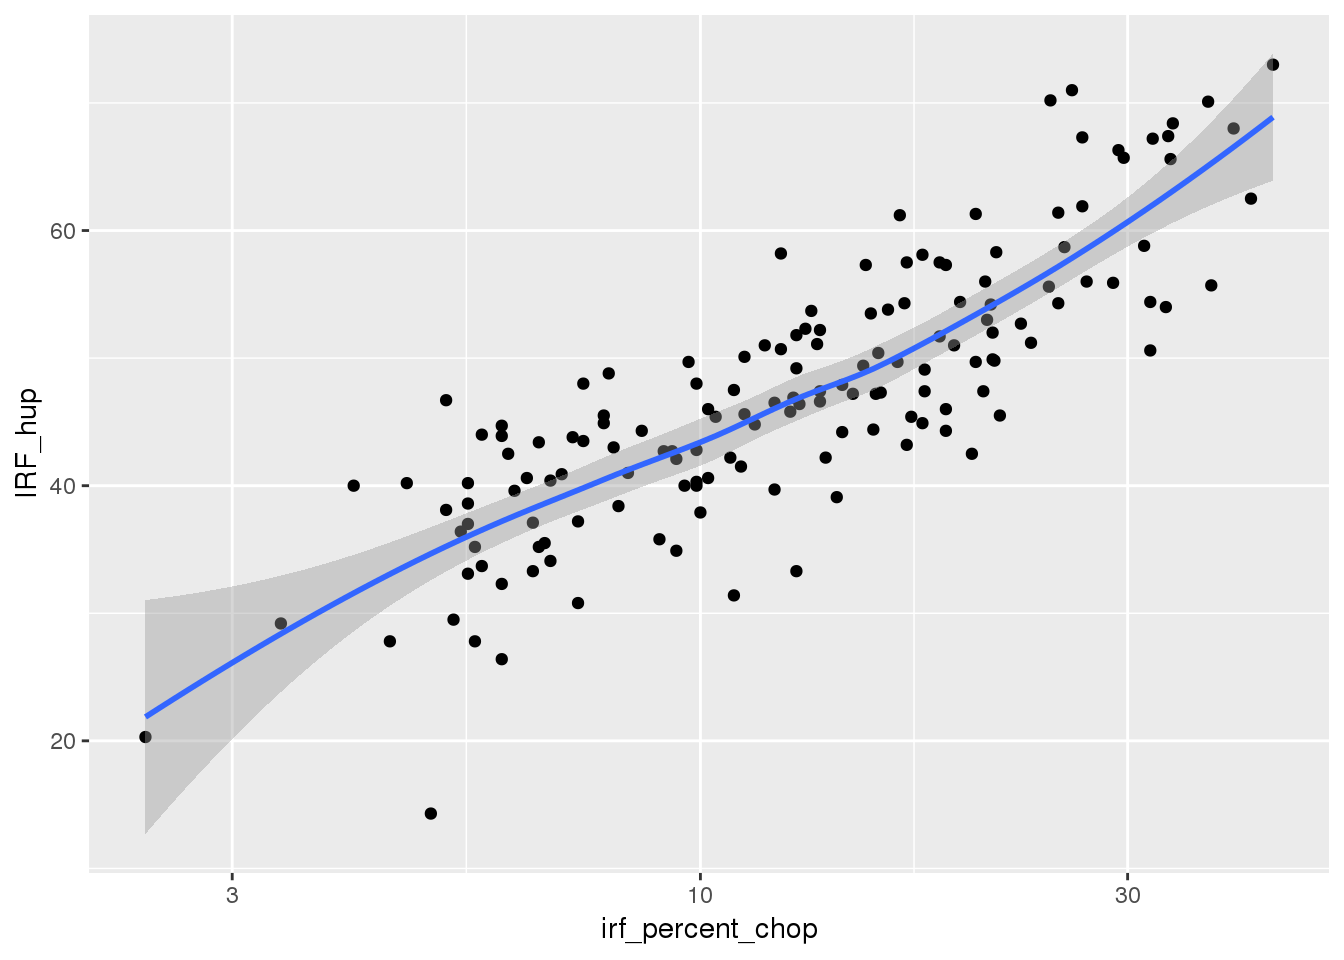
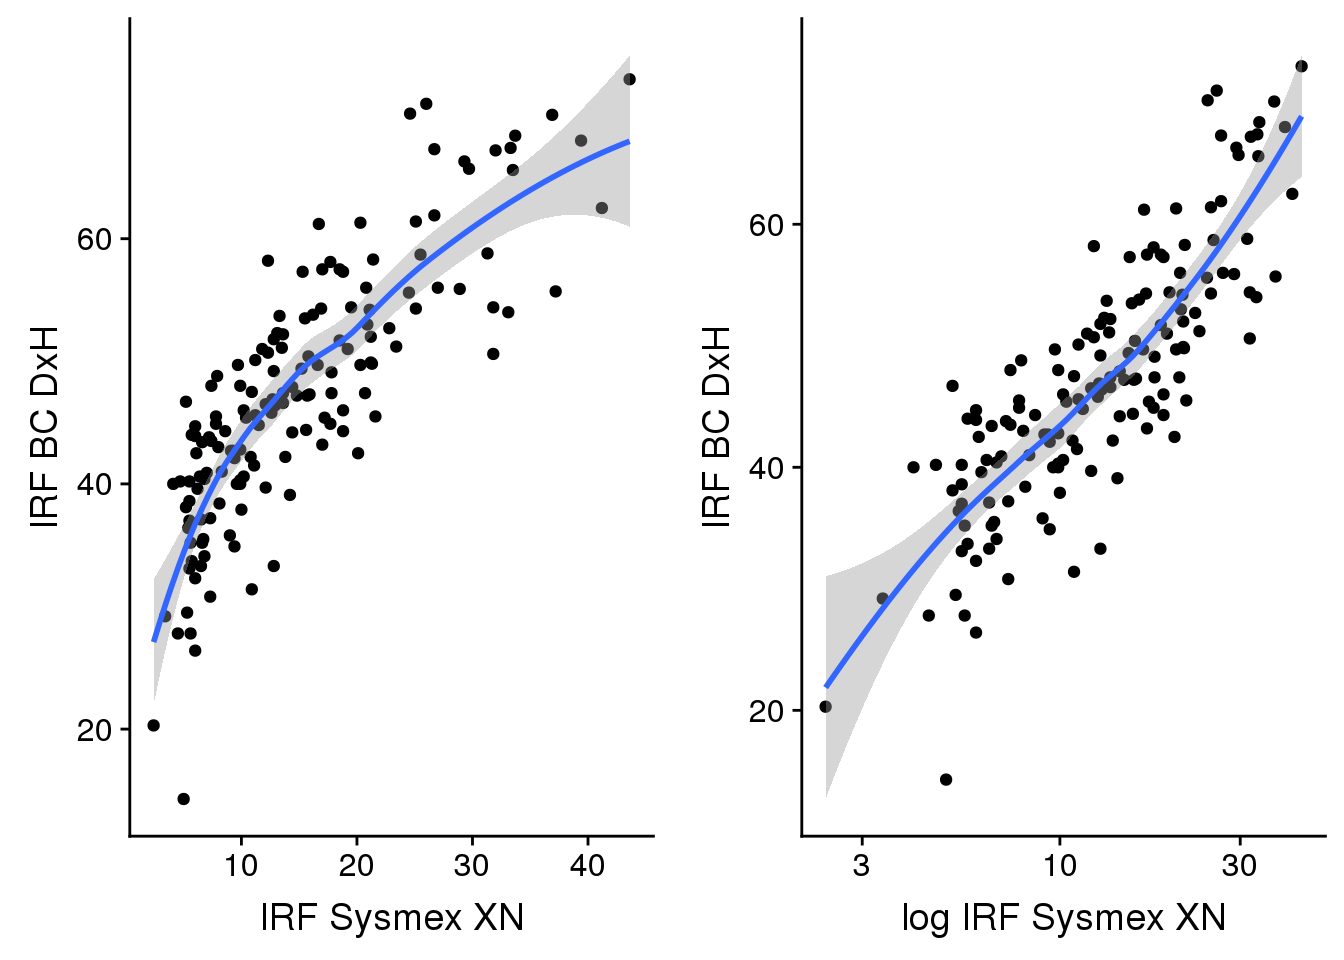
wflow_git_commit(all = TRUE)

diff --git a/docs/irf_cor.html b/docs/irf_cor.html
@@ -323,11 +323,11 @@ div.section {
 </div>
 
 
-<p><strong>Last updated:</strong> 2018-08-31</p>
+<p><strong>Last updated:</strong> 2018-09-05</p>
 <strong>workflowr checks:</strong> <small>(Click a bullet for more information)</small>
 <ul>
 <li>
-<p><details> <summary> <strong style="color:red;">✖</strong> <strong>R Markdown file:</strong> uncommitted changes </summary> The R Markdown is untracked by Git. To know which version of the R Markdown file created these results, you’ll want to first commit it to the Git repo. If you’re still working on the analysis, you can ignore this warning. When you’re finished, you can run <code>wflow_publish</code> to commit the R Markdown file and build the HTML.</p>
+<p><details> <summary> <strong style="color:red;">✖</strong> <strong>R Markdown file:</strong> uncommitted changes </summary> The R Markdown file has unstaged changes. To know which version of the R Markdown file created these results, you’ll want to first commit it to the Git repo. If you’re still working on the analysis, you can ignore this warning. When you’re finished, you can run <code>wflow_publish</code> to commit the R Markdown file and build the HTML.</p>
 </details>
 </li>
 <li>
@@ -346,16 +346,16 @@ div.section {
 </details>
 </li>
 <li>
-<p><details> <summary> <strong style="color:blue;">✔</strong> <strong>Repository version:</strong> <a href="https://github.com/amromeo/icsh_irf/tree/380f5182c28c2897f95f5d73e174a3e168f4dc6a" target="_blank">380f518</a> </summary></p>
+<p><details> <summary> <strong style="color:blue;">✔</strong> <strong>Repository version:</strong> <a href="https://github.com/amromeo/icsh_irf/tree/031d930d48e86a4eca908bc38a0d92f87b741521" target="_blank">031d930</a> </summary></p>
 Great! You are using Git for version control. Tracking code development and connecting the code version to the results is critical for reproducibility. The version displayed above was the version of the Git repository at the time these results were generated. <br><br> Note that you need to be careful to ensure that all relevant files for the analysis have been committed to Git prior to generating the results (you can use <code>wflow_publish</code> or <code>wflow_git_commit</code>). workflowr only checks the R Markdown file, but you know if there are other scripts or data files that it depends on. Below is the status of the Git repository when the results were generated:
 <pre><code>
 Ignored files:
     Ignored:    .Rhistory
     Ignored:    .Rproj.user/
+    Ignored:    analysis/figure/
     Ignored:    library/
 
 Untracked files:
-    Untracked:  analysis/irf_cor.Rmd
     Untracked:  data/4-17-18/
     Untracked:  data/4-25-18/
     Untracked:  data/5-17-18/
@@ -367,19 +367,94 @@ Untracked files:
     Untracked:  data/7-3-18/
     Untracked:  data/8-1-18/
 
+Unstaged changes:
+    Modified:   analysis/irf_cor.Rmd
+
 </code></pre>
 Note that any generated files, e.g. HTML, png, CSS, etc., are not included in this status report because it is ok for generated content to have uncommitted changes. </details>
 </li>
 </ul>
+<details> <summary> <small><strong>Expand here to see past versions:</strong></small> </summary>
+<ul>
+<table style="border-collapse:separate; border-spacing:5px;">
+<thead>
+<tr>
+<th style="text-align:left;">
+File
+</th>
+<th style="text-align:left;">
+Version
+</th>
+<th style="text-align:left;">
+Author
+</th>
+<th style="text-align:left;">
+Date
+</th>
+<th style="text-align:left;">
+Message
+</th>
+</tr>
+</thead>
+<tbody>
+<tr>
+<td style="text-align:left;">
+Rmd
+</td>
+<td style="text-align:left;">
+<a href="https://github.com/amromeo/icsh_irf/blob/031d930d48e86a4eca908bc38a0d92f87b741521/analysis/irf_cor.Rmd" target="_blank">031d930</a>
+</td>
+<td style="text-align:left;">
+Amrom
+</td>
+<td style="text-align:left;">
+2018-09-05
+</td>
+<td style="text-align:left;">
+wflow_git_commit(all = TRUE)
+</td>
+</tr>
+<tr>
+<td style="text-align:left;">
+Rmd
+</td>
+<td style="text-align:left;">
+<a href="https://github.com/amromeo/icsh_irf/blob/29a0268be58ffe7470181dd835dc9da0c9fd1949/analysis/irf_cor.Rmd" target="_blank">29a0268</a>
+</td>
+<td style="text-align:left;">
+Amrom
+</td>
+<td style="text-align:left;">
+2018-08-31
+</td>
+<td style="text-align:left;">
+correlation
+</td>
+</tr>
+<tr>
+<td style="text-align:left;">
+html
+</td>
+<td style="text-align:left;">
+<a href="https://cdn.rawgit.com/amromeo/icsh_irf/29a0268be58ffe7470181dd835dc9da0c9fd1949/docs/irf_cor.html" target="_blank">29a0268</a>
+</td>
+<td style="text-align:left;">
+Amrom
+</td>
+<td style="text-align:left;">
+2018-08-31
+</td>
+<td style="text-align:left;">
+correlation
+</td>
+</tr>
+</tbody>
+</table>
+</ul>
+<p></details></p>
 <hr />
 <div id="introduction" class="section level2">
 <h2>Introduction</h2>
-<pre class="r"><code>libloc&lt;-&quot;~/icsh_irf/library&quot;
-library(purrr,lib.loc=libloc)
-library(tidyr,lib.loc=libloc)
-library(stringr,lib.loc=libloc)
-library(ggplot2,lib.loc=libloc)
-library(dplyr,lib.loc=libloc)</code></pre>
 <pre><code>
 Attaching package: &#39;dplyr&#39;</code></pre>
 <pre><code>The following object is masked from &#39;package:ggplot2&#39;:
@@ -391,11 +466,12 @@ Attaching package: &#39;dplyr&#39;</code></pre>
 <pre><code>The following objects are masked from &#39;package:base&#39;:
 
     intersect, setdiff, setequal, union</code></pre>
-<pre class="r"><code>library(here,lib.loc=libloc)</code></pre>
 <pre><code>here() starts at /home/obstfelda/icsh_irf</code></pre>
-<pre class="r"><code>library(janitor,lib.loc=libloc)
-library(mcr,lib.loc=libloc)
-library(readxl,lib.loc=libloc)</code></pre>
+<pre><code>
+Attaching package: &#39;cowplot&#39;</code></pre>
+<pre><code>The following object is masked from &#39;package:ggplot2&#39;:
+
+    ggsave</code></pre>
 <pre class="r"><code>load(here(&quot;prepped_data&quot;,&quot;hup.Rdata&quot;))
 load(here(&quot;prepped_data&quot;,&quot;chop.Rdata&quot;))</code></pre>
 <pre class="r"><code>matchup&lt;-read_xlsx(here(&quot;data&quot;,&quot;sample matchup.xlsx&quot;))</code></pre>
@@ -414,24 +490,108 @@ df&lt;-matchup %&gt;%
   left_join(chop, by=&quot;chop_id&quot;) %&gt;% 
   left_join(hup,by=c(&quot;dxh_id&quot; = &quot;Sample&quot;)) %&gt;% 
   mutate(IRF_hup = 100*IRF_hup)</code></pre>
-<pre class="r"><code>ggplot(df,aes(irf_percent_chop,IRF_hup))+
+<pre class="r"><code>p1&lt;-ggplot(df,aes(irf_percent_chop,IRF_hup))+
   geom_point()+
   geom_smooth()+
-  scale_x_log10()</code></pre>
+  labs(x=&quot;IRF Sysmex XN&quot;,y=&quot;IRF BC DxH&quot;)
+
+
+p2&lt;-ggplot(df,aes(irf_percent_chop,IRF_hup))+
+  geom_point()+
+  geom_smooth()+
+  scale_x_log10()+
+  labs(x=&quot;log IRF Sysmex XN&quot;,y=&quot;IRF BC DxH&quot;)
+
+plot_grid(p1,p2)</code></pre>
 <pre><code>`geom_smooth()` using method = &#39;loess&#39; and formula &#39;y ~ x&#39;</code></pre>
 <pre><code>Warning: Removed 3 rows containing non-finite values (stat_smooth).</code></pre>
 <pre><code>Warning: Removed 3 rows containing missing values (geom_point).</code></pre>
+<pre><code>`geom_smooth()` using method = &#39;loess&#39; and formula &#39;y ~ x&#39;</code></pre>
+<pre><code>Warning: Removed 3 rows containing non-finite values (stat_smooth).
+
+Warning: Removed 3 rows containing missing values (geom_point).</code></pre>
 <p><img src="figure/irf_cor.Rmd/unnamed-chunk-5-1.png" width="672" style="display: block; margin: auto;" /></p>
-<pre class="r"><code>pbreg&lt;-mcreg(log(df$irf_percent_chop),df$IRF_hup, method.reg = &quot;PaBa&quot;,na.rm = TRUE)</code></pre>
+<details> <summary><em>Expand here to see past versions of unnamed-chunk-5-1.png:</em></summary>
+<table style="border-collapse:separate; border-spacing:5px;">
+<thead>
+<tr>
+<th style="text-align:left;">
+Version
+</th>
+<th style="text-align:left;">
+Author
+</th>
+<th style="text-align:left;">
+Date
+</th>
+</tr>
+</thead>
+<tbody>
+<tr>
+<td style="text-align:left;">
+<a href="https://github.com/amromeo/icsh_irf/blob/29a0268be58ffe7470181dd835dc9da0c9fd1949/docs/figure/irf_cor.Rmd/unnamed-chunk-5-1.png" target="_blank">29a0268</a>
+</td>
+<td style="text-align:left;">
+Amrom
+</td>
+<td style="text-align:left;">
+2018-08-31
+</td>
+</tr>
+</tbody>
+</table>
+<p></details></p>
+<pre class="r"><code>pbreg&lt;-mcreg(log10(df$irf_percent_chop),(df$IRF_hup), method.reg = &quot;Deming&quot;,na.rm = TRUE)</code></pre>
 <pre><code>Please note: 
 3 of 156 observations contain missing values and have been removed.
 Number of data points in analysis is 153.</code></pre>
-<pre class="r"><code>pbreg@para</code></pre>
-<pre><code>                EST SE       LCI       UCI
-Intercept -1.603206 NA -7.671018  3.311323
-Slope     19.502834 NA 17.475033 21.676218</code></pre>
-<pre class="r"><code>plot(pbreg)</code></pre>
+<pre class="r"><code># 
+# b0&lt;-pbreg@glob.coef[1]
+# b1&lt;-pbreg@glob.coef[2]
+# 
+# 
+# ggplot(df,aes(irf_percent_chop,IRF_hup))+
+#   geom_point()+
+#   geom_abline(slope = b1,intercept = b0)+
+#   reg.conf.intervals(df$irf_percent_chop,df$IRF_hup,pbreg)
+#   scale_x_log10()+
+#   labs(x=&quot;IRF Sysmex XN (log scale)&quot;,y=&quot;IRF BC DxH&quot;)
+# 
+
+
+plot(pbreg,  x.lab = &quot;Log Sysmex XN&quot;, y.lab = &quot;BC DxH&quot;)</code></pre>
 <p><img src="figure/irf_cor.Rmd/unnamed-chunk-6-1.png" width="672" style="display: block; margin: auto;" /></p>
+<details> <summary><em>Expand here to see past versions of unnamed-chunk-6-1.png:</em></summary>
+<table style="border-collapse:separate; border-spacing:5px;">
+<thead>
+<tr>
+<th style="text-align:left;">
+Version
+</th>
+<th style="text-align:left;">
+Author
+</th>
+<th style="text-align:left;">
+Date
+</th>
+</tr>
+</thead>
+<tbody>
+<tr>
+<td style="text-align:left;">
+<a href="https://github.com/amromeo/icsh_irf/blob/29a0268be58ffe7470181dd835dc9da0c9fd1949/docs/figure/irf_cor.Rmd/unnamed-chunk-6-1.png" target="_blank">29a0268</a>
+</td>
+<td style="text-align:left;">
+Amrom
+</td>
+<td style="text-align:left;">
+2018-08-31
+</td>
+</tr>
+</tbody>
+</table>
+<p></details></p>
+<pre class="r"><code># sctest(log10(df$irf_percent_chop)~df$IRF_hup)</code></pre>
 </div>
 <div id="session-information" class="section level2">
 <h2>Session information</h2>
@@ -455,9 +615,9 @@ attached base packages:
 [1] stats     graphics  grDevices utils     datasets  methods   base     
 
 other attached packages:
- [1] bindrcpp_0.2.2 readxl_1.1.0   mcr_1.2.1      janitor_1.1.1 
- [5] here_0.1       dplyr_0.7.6    ggplot2_3.0.0  stringr_1.3.1 
- [9] tidyr_0.8.1    purrr_0.2.5   
+ [1] bindrcpp_0.2.2 cowplot_0.9.3  readxl_1.1.0   mcr_1.2.1     
+ [5] janitor_1.1.1  here_0.1       dplyr_0.7.6    ggplot2_3.0.0 
+ [9] stringr_1.3.1  tidyr_0.8.1    purrr_0.2.5   
 
 loaded via a namespace (and not attached):
  [1] Rcpp_0.12.18      cellranger_1.1.0  pillar_1.3.0     
